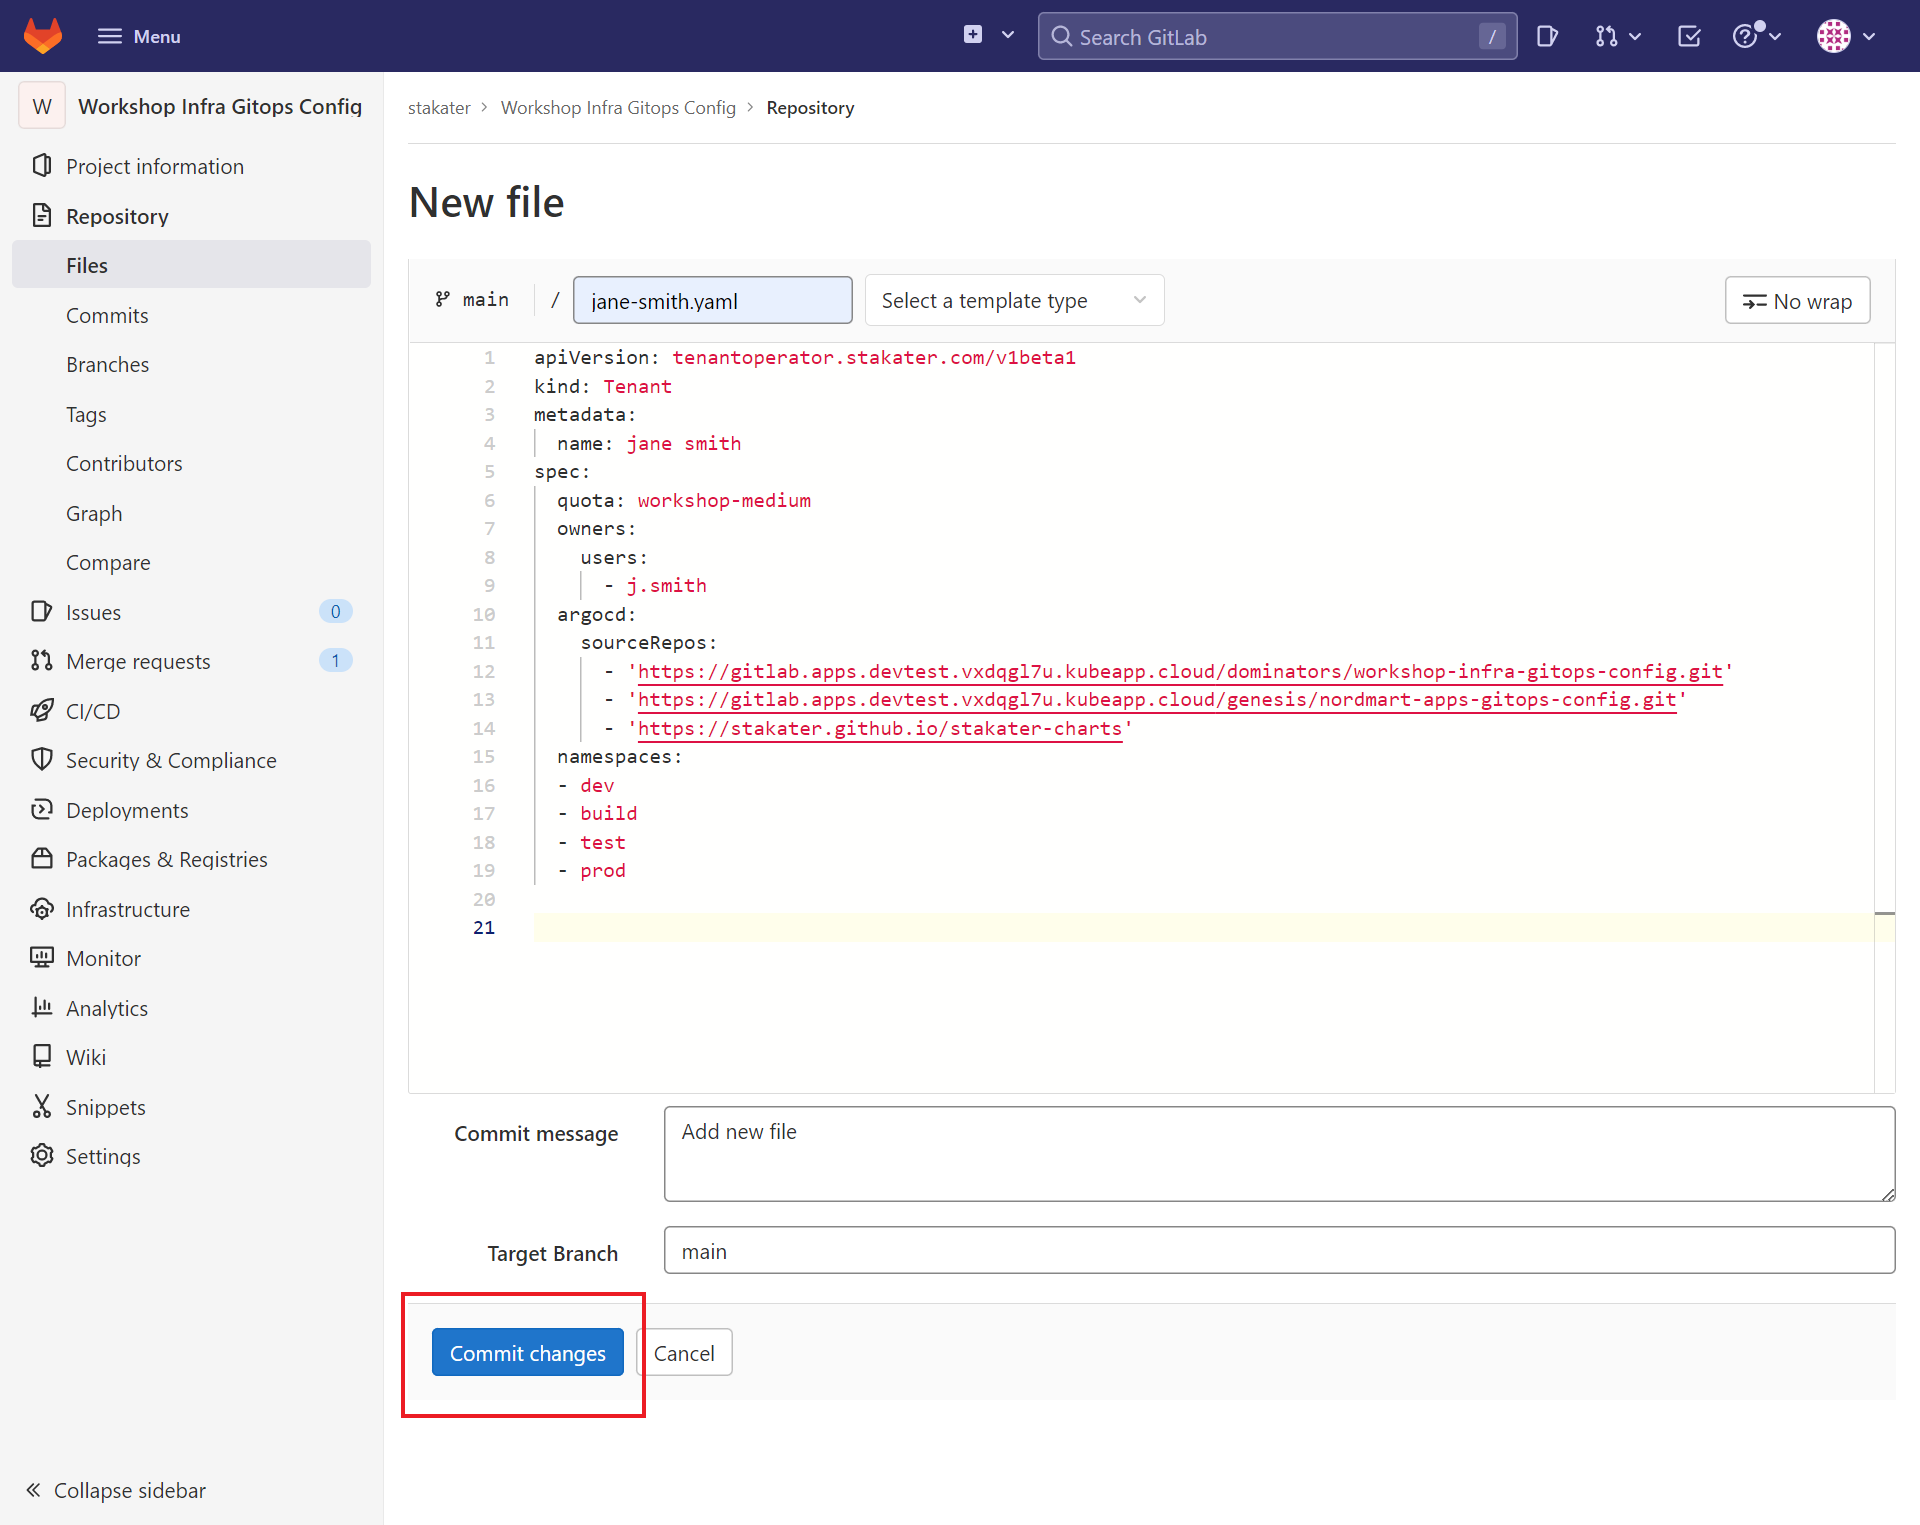
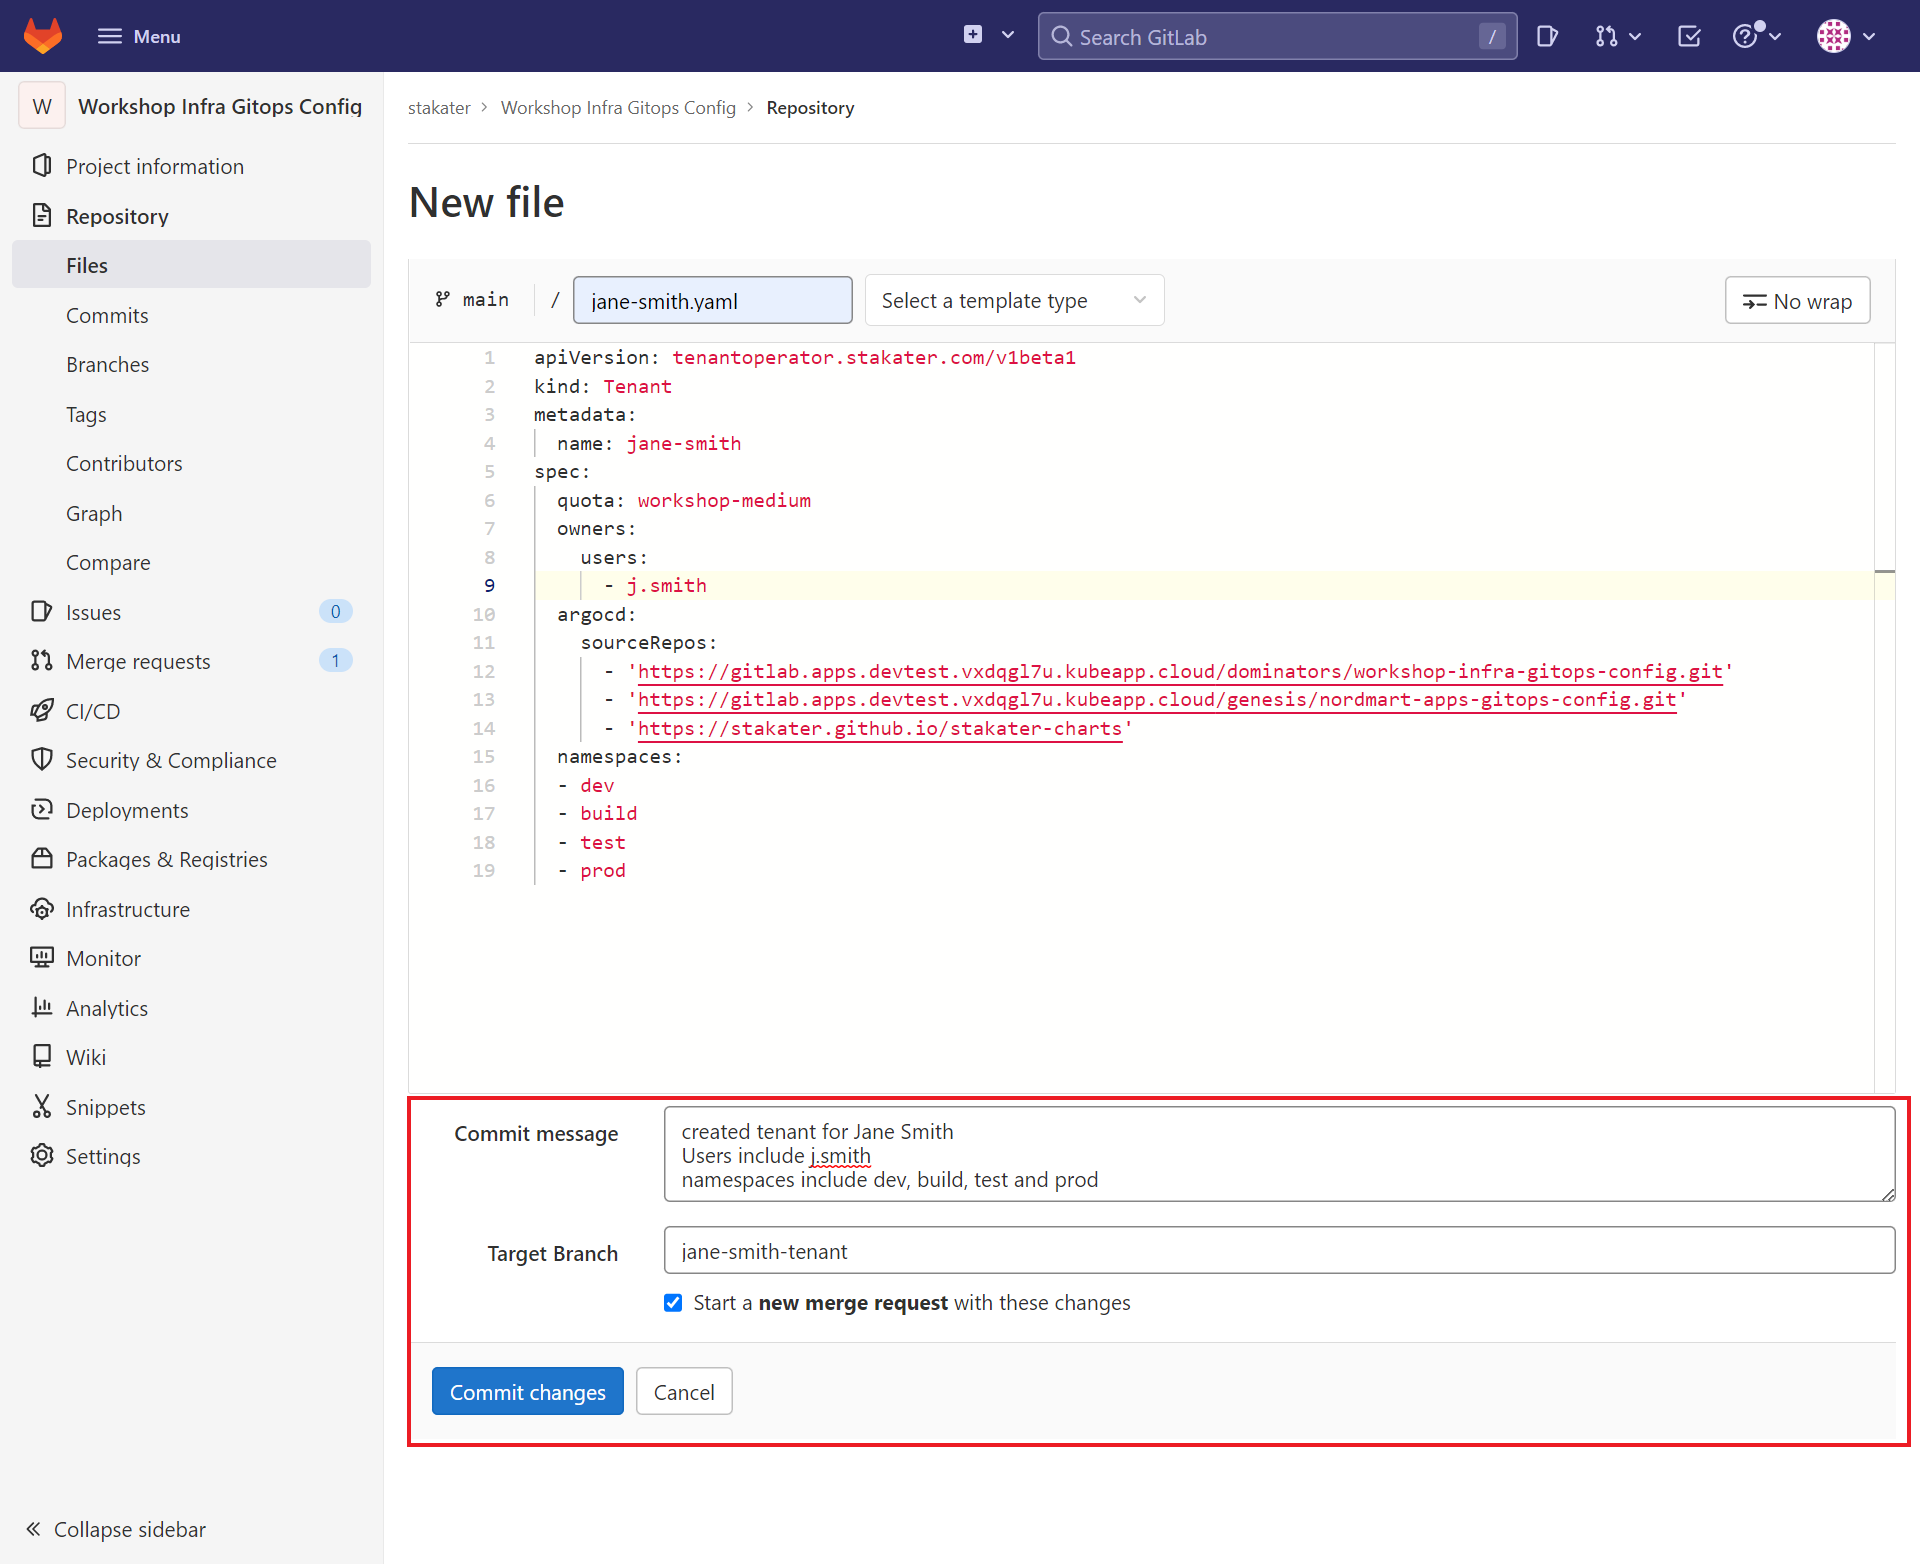
update mto

diff --git a/docs/1-the-manual-menace/12-tenant-operator-101.md b/docs/1-the-manual-menace/12-tenant-operator-101.md
@@ -1,6 +1,7 @@
 # 🐓 Tenant Operator 101
 
-Stakater’s [Tenant-Operator](https://docs.cloud.stakater.com/content/sre/tenant-operator/overview.html) makes it easy to implement multi-tenancy in your organisation. When Network and Security Policies, Resource Quotas, Limit Ranges, and RBAC are configured for a tenant, all the namespaces and users inherit these policies.
+Stakater’s [Tenant-Operator](https://docs.cloud.stakater.com/content/sre/tenant-operator/overview.html) makes it easy to implement multi-tenancy in your organisation. When you create a tenant, you get a dedicated SAAP instance.
+Network and Security Policies, Resource Quotas, Limit Ranges, and RBAC policies which are configured for a tenant, are inherited by all the namespaces and users of that tenant.
 
 With Tenant-Operator custom resources, you can help your developers self-service, reliving your admins of some engineering toil.
 
@@ -71,6 +72,9 @@ spec:
   - prod
 ```
 
-5. Select `commit changes` to create your tenant. ArgoCD automates the creation of tenants by syncing your desired state with the actual state of your SAAP instance.
+5. Add a usefull commit message indicating the changes you wish to make. In the `Target Branch` tile, input ypur branch name and select `commit changes` to create a merge request.
+
 
 ![mto-commit](./images/mto-commit.png)
+
+6. Once your merge request is accepted, your tenant will be created. ArgoCD automates the creation of tenants by syncing your desired state with the actual state of your SAAP instance makes tenant creation seamless.
